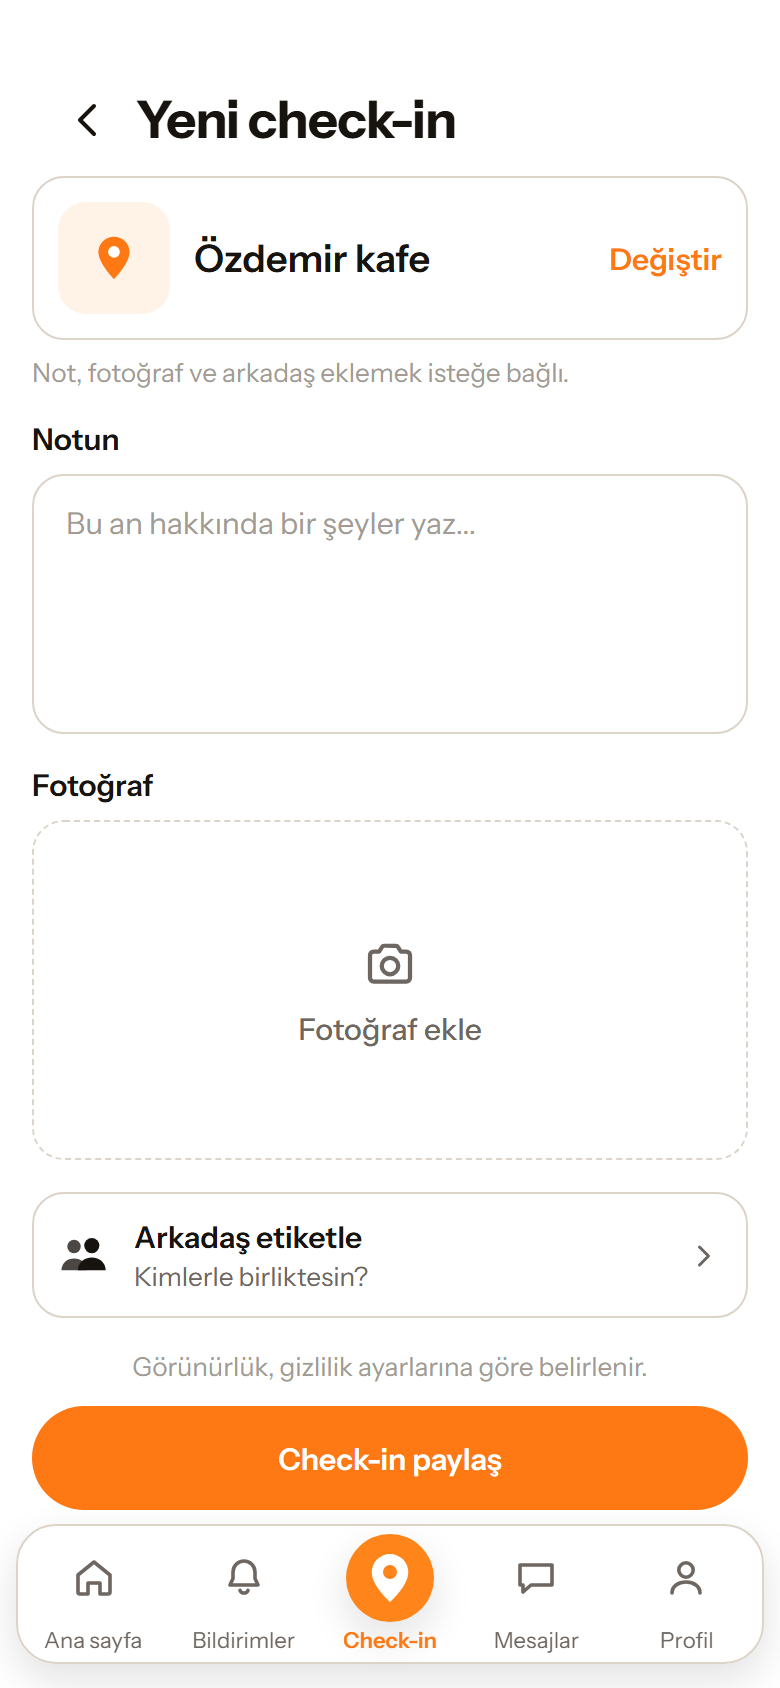
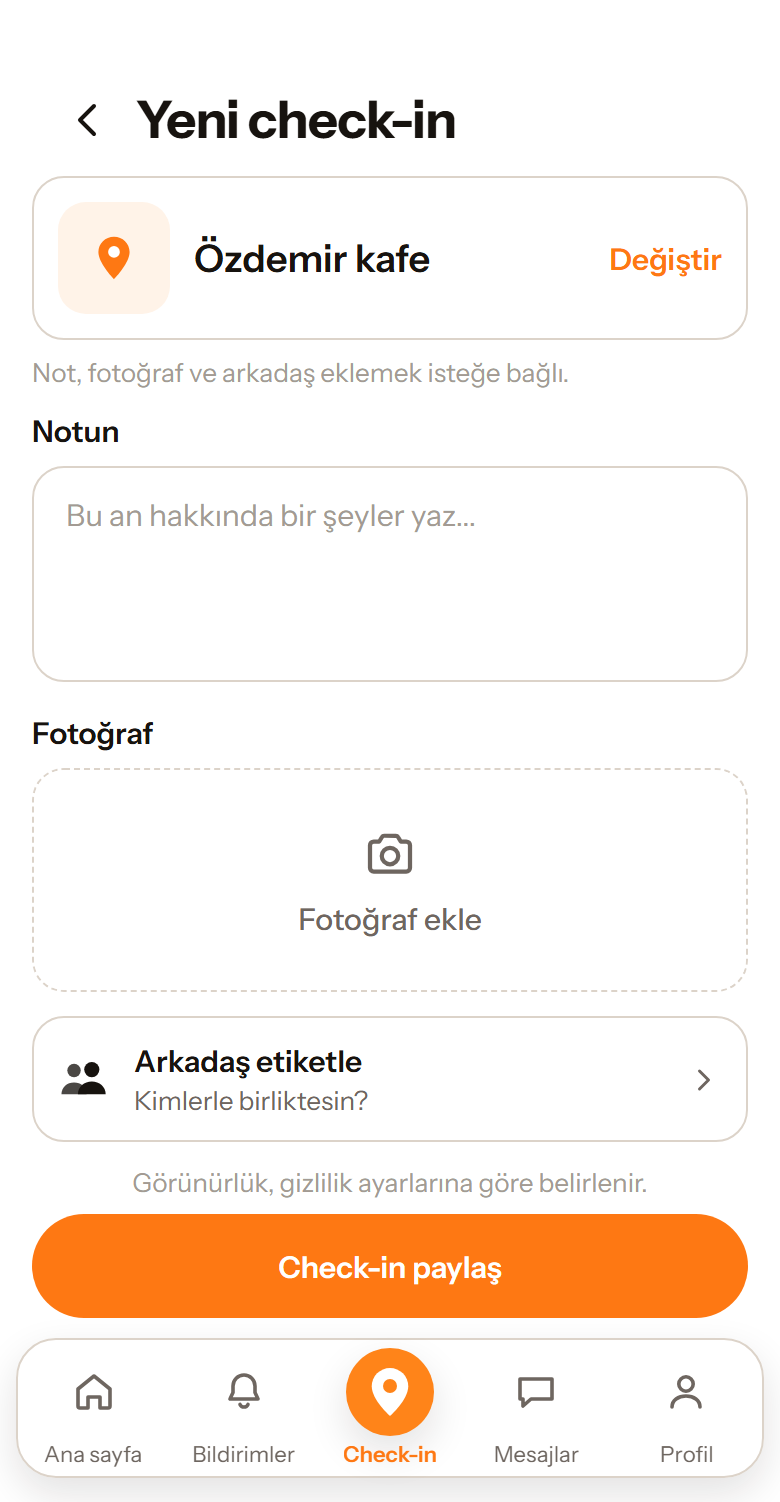
style(check-in formu): tek ekran kaydirmasiz - not/fotograf kutulari esnek, kisa ekranda (SE) sikilastirma
Claude-Session: https://claude.ai/code/session_01NLq7DtPDxk3n3DyvBfgF13

diff --git a/mobil/src/app/check-in/[mekanId].tsx b/mobil/src/app/check-in/[mekanId].tsx
@@ -1,5 +1,5 @@
 import { useEffect, useState } from 'react'
-import { View, Text, TextInput, Pressable, Image, StyleSheet } from 'react-native'
+import { View, Text, TextInput, Pressable, Image, StyleSheet, useWindowDimensions } from 'react-native'
 import Svg, { Path, Circle } from 'react-native-svg'
 import { useRouter, useLocalSearchParams } from 'expo-router'
 import * as ImagePicker from 'expo-image-picker'
@@ -36,6 +36,9 @@ import { Avatar } from '../../tasarim/Avatar'
 export default function CheckInEkrani() {
   const stiller = useStiller(stilleriYap)
   const renk = useRenk()
+  // KISA EKRAN (< 720 pt, iPhone SE): ipucu satiri gizli, kutular daha
+  // basik - tek ekrana kaydirmasiz sigsin (cihaz uyumu kurali 2026-09-19).
+  const kisaEkran = useWindowDimensions().height < 720
   const router = useRouter()
   const { t } = useDil()
   const { mekanId } = useLocalSearchParams<{ mekanId: string }>()
@@ -224,7 +227,7 @@ export default function CheckInEkrani() {
       <UstCubuk baslik={t('checkIn.baslik')} geriEtiketi={t('ortak.geri')} />
 
       {mekan && (
-        <View style={stiller.mekanKarti} testID="mekan-karti">
+        <View style={[stiller.mekanKarti, kisaEkran && stiller.mekanKartiKisa]} testID="mekan-karti">
           <View style={stiller.mekanIkonKutusu}>
             <IgneIkonu boyut={26} />
           </View>
@@ -237,11 +240,11 @@ export default function CheckInEkrani() {
           </Pressable>
         </View>
       )}
-      <Text style={stiller.ipucu}>{t('checkIn.istegeBagli')}</Text>
+      {!kisaEkran && <Text style={stiller.ipucu}>{t('checkIn.istegeBagli')}</Text>}
 
       <Text style={stiller.etiket}>{t('checkIn.notEtiket')}</Text>
       <TextInput
-        style={[stiller.girdi, stiller.cokSatirli]}
+        style={[stiller.girdi, stiller.cokSatirli, kisaEkran && stiller.cokSatirliKisa]}
         placeholder={t('checkIn.notYerTutucu')}
         placeholderTextColor={renk.metinSoluk}
         value={notMetni}
@@ -256,7 +259,7 @@ export default function CheckInEkrani() {
       <Text style={stiller.etiket}>{t('checkIn.fotografEtiket')}</Text>
       {yerelFotoUri ? (
         <View style={stiller.onizlemeKabi}>
-          <Pressable onPress={() => setKaynakSecimi(true)} accessibilityRole="imagebutton" accessibilityLabel={t('checkIn.fotografCek')}>
+          <Pressable style={stiller.onizlemeDugmesi} onPress={() => setKaynakSecimi(true)} accessibilityRole="imagebutton" accessibilityLabel={t('checkIn.fotografCek')}>
             <Image source={{ uri: yerelFotoUri }} style={stiller.onizleme} testID="foto-onizleme" />
           </Pressable>
           <Pressable
@@ -272,7 +275,7 @@ export default function CheckInEkrani() {
         </View>
       ) : (
         <Pressable
-          style={({ pressed }) => [stiller.fotoKutusu, pressed && stiller.basili]}
+          style={({ pressed }) => [stiller.fotoKutusu, kisaEkran && stiller.fotoKutusuKisa, pressed && stiller.basili]}
           onPress={() => setKaynakSecimi(true)}
           accessibilityRole="button"
           testID="foto-ekle"
@@ -287,7 +290,7 @@ export default function CheckInEkrani() {
            Arkadas listesi bos olsa da gorunur - ozelligin varligi belli
            olsun (2026-09-12 karari). */
         <Pressable
-          style={({ pressed }) => [stiller.etiketleSatiri, pressed && stiller.basili]}
+          style={({ pressed }) => [stiller.etiketleSatiri, kisaEkran && stiller.etiketleSatiriKisa, pressed && stiller.basili]}
           onPress={() => setArkadasSecimi(true)}
           accessibilityRole="button"
           testID="arkadas-ekle"
@@ -420,7 +423,7 @@ const stilleriYap = (renk: Renk) => StyleSheet.create({
   mekanAd: { fontFamily: yazi.govdeKalin, fontSize: olcek.altBaslik, color: renk.metin },
   mekanKonum: { fontFamily: yazi.govde, fontSize: olcek.kucuk, color: renk.metinIkincil, marginTop: 2 },
   degistir: { fontFamily: yazi.govdeKalin, fontSize: olcek.govde, color: renk.turuncu },
-  ipucu: { fontFamily: yazi.govde, fontSize: olcek.kucuk, color: renk.metinSoluk, marginTop: bosluk.s, marginBottom: bosluk.l },
+  ipucu: { fontFamily: yazi.govde, fontSize: olcek.kucuk, color: renk.metinSoluk, marginTop: bosluk.s, marginBottom: bosluk.m },
 
   etiket: { fontFamily: yazi.govdeKalin, fontSize: olcek.govde, color: renk.metin, marginBottom: bosluk.s },
   etiketSikisik: { fontFamily: yazi.govdeKalin, fontSize: olcek.govde, color: renk.metin },
@@ -436,24 +439,34 @@ const stilleriYap = (renk: Renk) => StyleSheet.create({
     fontSize: olcek.govde,
     color: renk.metin,
   },
-  cokSatirli: { minHeight: 130, textAlignVertical: 'top' },
+  // TEK EKRAN, KAYDIRMASIZ (kullanicinin istegi 2026-09-20): not ve
+  // fotograf kutulari sabit degil, kalan yuksekligi paylasiyor (FormSayfasi
+  // icerigi flexGrow 1). Kucuk ekranda minHeight'a iner; ancak o da
+  // sigmazsa kaydirir (SE 375x647 olculdu: sigiyor).
+  cokSatirli: { flex: 1, minHeight: 72, textAlignVertical: 'top' },
+  cokSatirliKisa: { minHeight: 48, paddingVertical: 10 },
+  mekanKartiKisa: { padding: bosluk.s, marginBottom: bosluk.m },
+  fotoKutusuKisa: { minHeight: 64, flexDirection: 'row' },
+  etiketleSatiriKisa: { padding: bosluk.s },
 
   // Kesikli kutu: fotograf yokken.
   fotoKutusu: {
     alignItems: 'center',
     justifyContent: 'center',
     gap: bosluk.s,
-    minHeight: 170,
+    flex: 1.4,
+    minHeight: 96,
     borderWidth: 1.5,
     borderStyle: 'dashed',
     borderColor: renk.cizgi,
     borderRadius: yuvarlak.kart,
     backgroundColor: renk.yuzey,
-    marginBottom: bosluk.l,
+    marginBottom: bosluk.m,
   },
   fotoKutusuYazi: { fontFamily: yazi.govdeOrta, fontSize: olcek.govde, color: renk.metinIkincil },
-  onizlemeKabi: { marginBottom: bosluk.l },
-  onizleme: { width: '100%', aspectRatio: 16 / 10, borderRadius: yuvarlak.kart, backgroundColor: renk.cizgi },
+  onizlemeKabi: { flex: 1.4, minHeight: 96, marginBottom: bosluk.m },
+  onizleme: { width: '100%', height: '100%', borderRadius: yuvarlak.kart, backgroundColor: renk.cizgi },
+  onizlemeDugmesi: { flex: 1 },
   kaldirDugmesi: {
     position: 'absolute',
     top: bosluk.s,
@@ -475,12 +488,12 @@ const stilleriYap = (renk: Renk) => StyleSheet.create({
     borderColor: renk.cizgi,
     borderRadius: yuvarlak.kart,
     padding: bosluk.m,
-    marginBottom: bosluk.l,
+    marginBottom: bosluk.m,
   },
   satirBaslik: { fontFamily: yazi.govdeKalin, fontSize: olcek.govde, color: renk.metin },
   satirAlt: { fontFamily: yazi.govde, fontSize: olcek.kucuk, color: renk.metinIkincil, marginTop: 2 },
   birlikteBaslik: { flexDirection: 'row', alignItems: 'center', justifyContent: 'space-between', marginBottom: bosluk.s },
-  etiketCipleri: { flexDirection: 'row', flexWrap: 'wrap', gap: bosluk.s, marginBottom: bosluk.l },
+  etiketCipleri: { flexDirection: 'row', flexWrap: 'wrap', gap: bosluk.s, marginBottom: bosluk.m },
   etiketCipi: {
     flexDirection: 'row',
     alignItems: 'center',
@@ -501,8 +514,7 @@ const stilleriYap = (renk: Renk) => StyleSheet.create({
     fontSize: olcek.kucuk,
     color: renk.metinSoluk,
     textAlign: 'center',
-    marginTop: 'auto',
-    marginBottom: bosluk.m,
+    marginBottom: bosluk.s,
   },
   hata: { fontFamily: yazi.govdeOrta, fontSize: olcek.kucuk, color: renk.yikici, marginBottom: bosluk.s },
   uyari: { fontFamily: yazi.govdeOrta, fontSize: olcek.kucuk, color: renk.turuncuYazi, marginBottom: bosluk.s },
